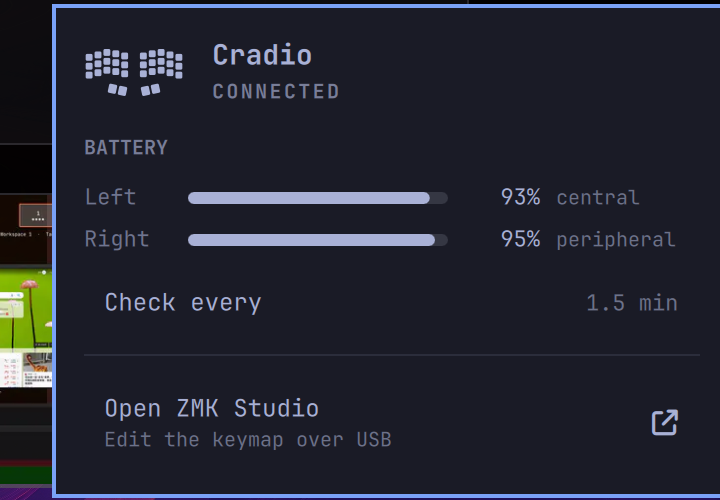
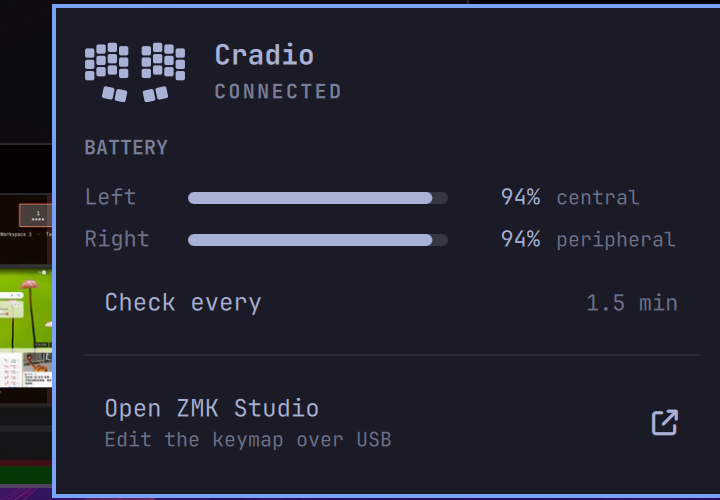
Four columns per half with larger keys

diff --git a/SplitKeyboardIcon.qml b/SplitKeyboardIcon.qml
@@ -12,9 +12,9 @@ Item {
   property color color: "#ffffff"
 
   // Stagger + three rows + gap + a tilted two-key thumb row.
-  readonly property real keyUnit: iconSize / 5.4
-  readonly property real halfGap: keyUnit * 1.1
-  implicitWidth: Math.ceil(keyUnit * 10 + halfGap)
+  readonly property real keyUnit: iconSize / 5.3
+  readonly property real halfGap: keyUnit * 1.0
+  implicitWidth: Math.ceil(keyUnit * 8 + halfGap)
   implicitHeight: iconSize
 
   onColorChanged: canvas.requestPaint()
@@ -28,9 +28,11 @@ Item {
     onWidthChanged: requestPaint()
     onHeightChanged: requestPaint()
 
-    // Column offsets in key units, pinky to inner column (Sweep stagger).
-    readonly property var stagger: [0.55, 0.28, 0.0, 0.15, 0.4]
-    readonly property int cols: 5
+    // Column offsets in key units, pinky to inner column. Four columns per
+    // half rather than the Sweep's five: at icon sizes the keys need the room
+    // more than the count needs to be exact.
+    readonly property var stagger: [0.5, 0.15, 0.0, 0.3]
+    readonly property int cols: 4
     readonly property int rows: 3
 
     onPaint: {
@@ -42,7 +44,7 @@ Item {
       var key = root.keyUnit
       var gap = root.halfGap                          // space between the halves
       var totalW = key * cols * 2 + gap
-      var maxStagger = 0.55 * key
+      var maxStagger = 0.5 * key
       var thumbTilt = 12 * Math.PI / 180                // thumb rows angle outward like a real split
       var thumb = key * 1.15                            // thumb keys are a touch larger than the grid
       var totalH = maxStagger + key * rows + key * 0.3 + thumb + key * 0.4

diff --git a/Panel.qml b/Panel.qml
@@ -89,7 +89,7 @@ Panel {
       Item {
         SplitKeyboardIcon {
           anchors.centerIn: parent
-          iconSize: Style.space(12)
+          iconSize: Style.space(15)
           color: root.barIconColor
         }
       }
@@ -154,7 +154,7 @@ Panel {
             iconSize: Style.space(52)
             iconComponent: Component {
               SplitKeyboardIcon {
-                iconSize: Style.font.display
+                iconSize: Style.space(30)
                 color: kb.connected ? root.foreground : root.dim
               }
             }
